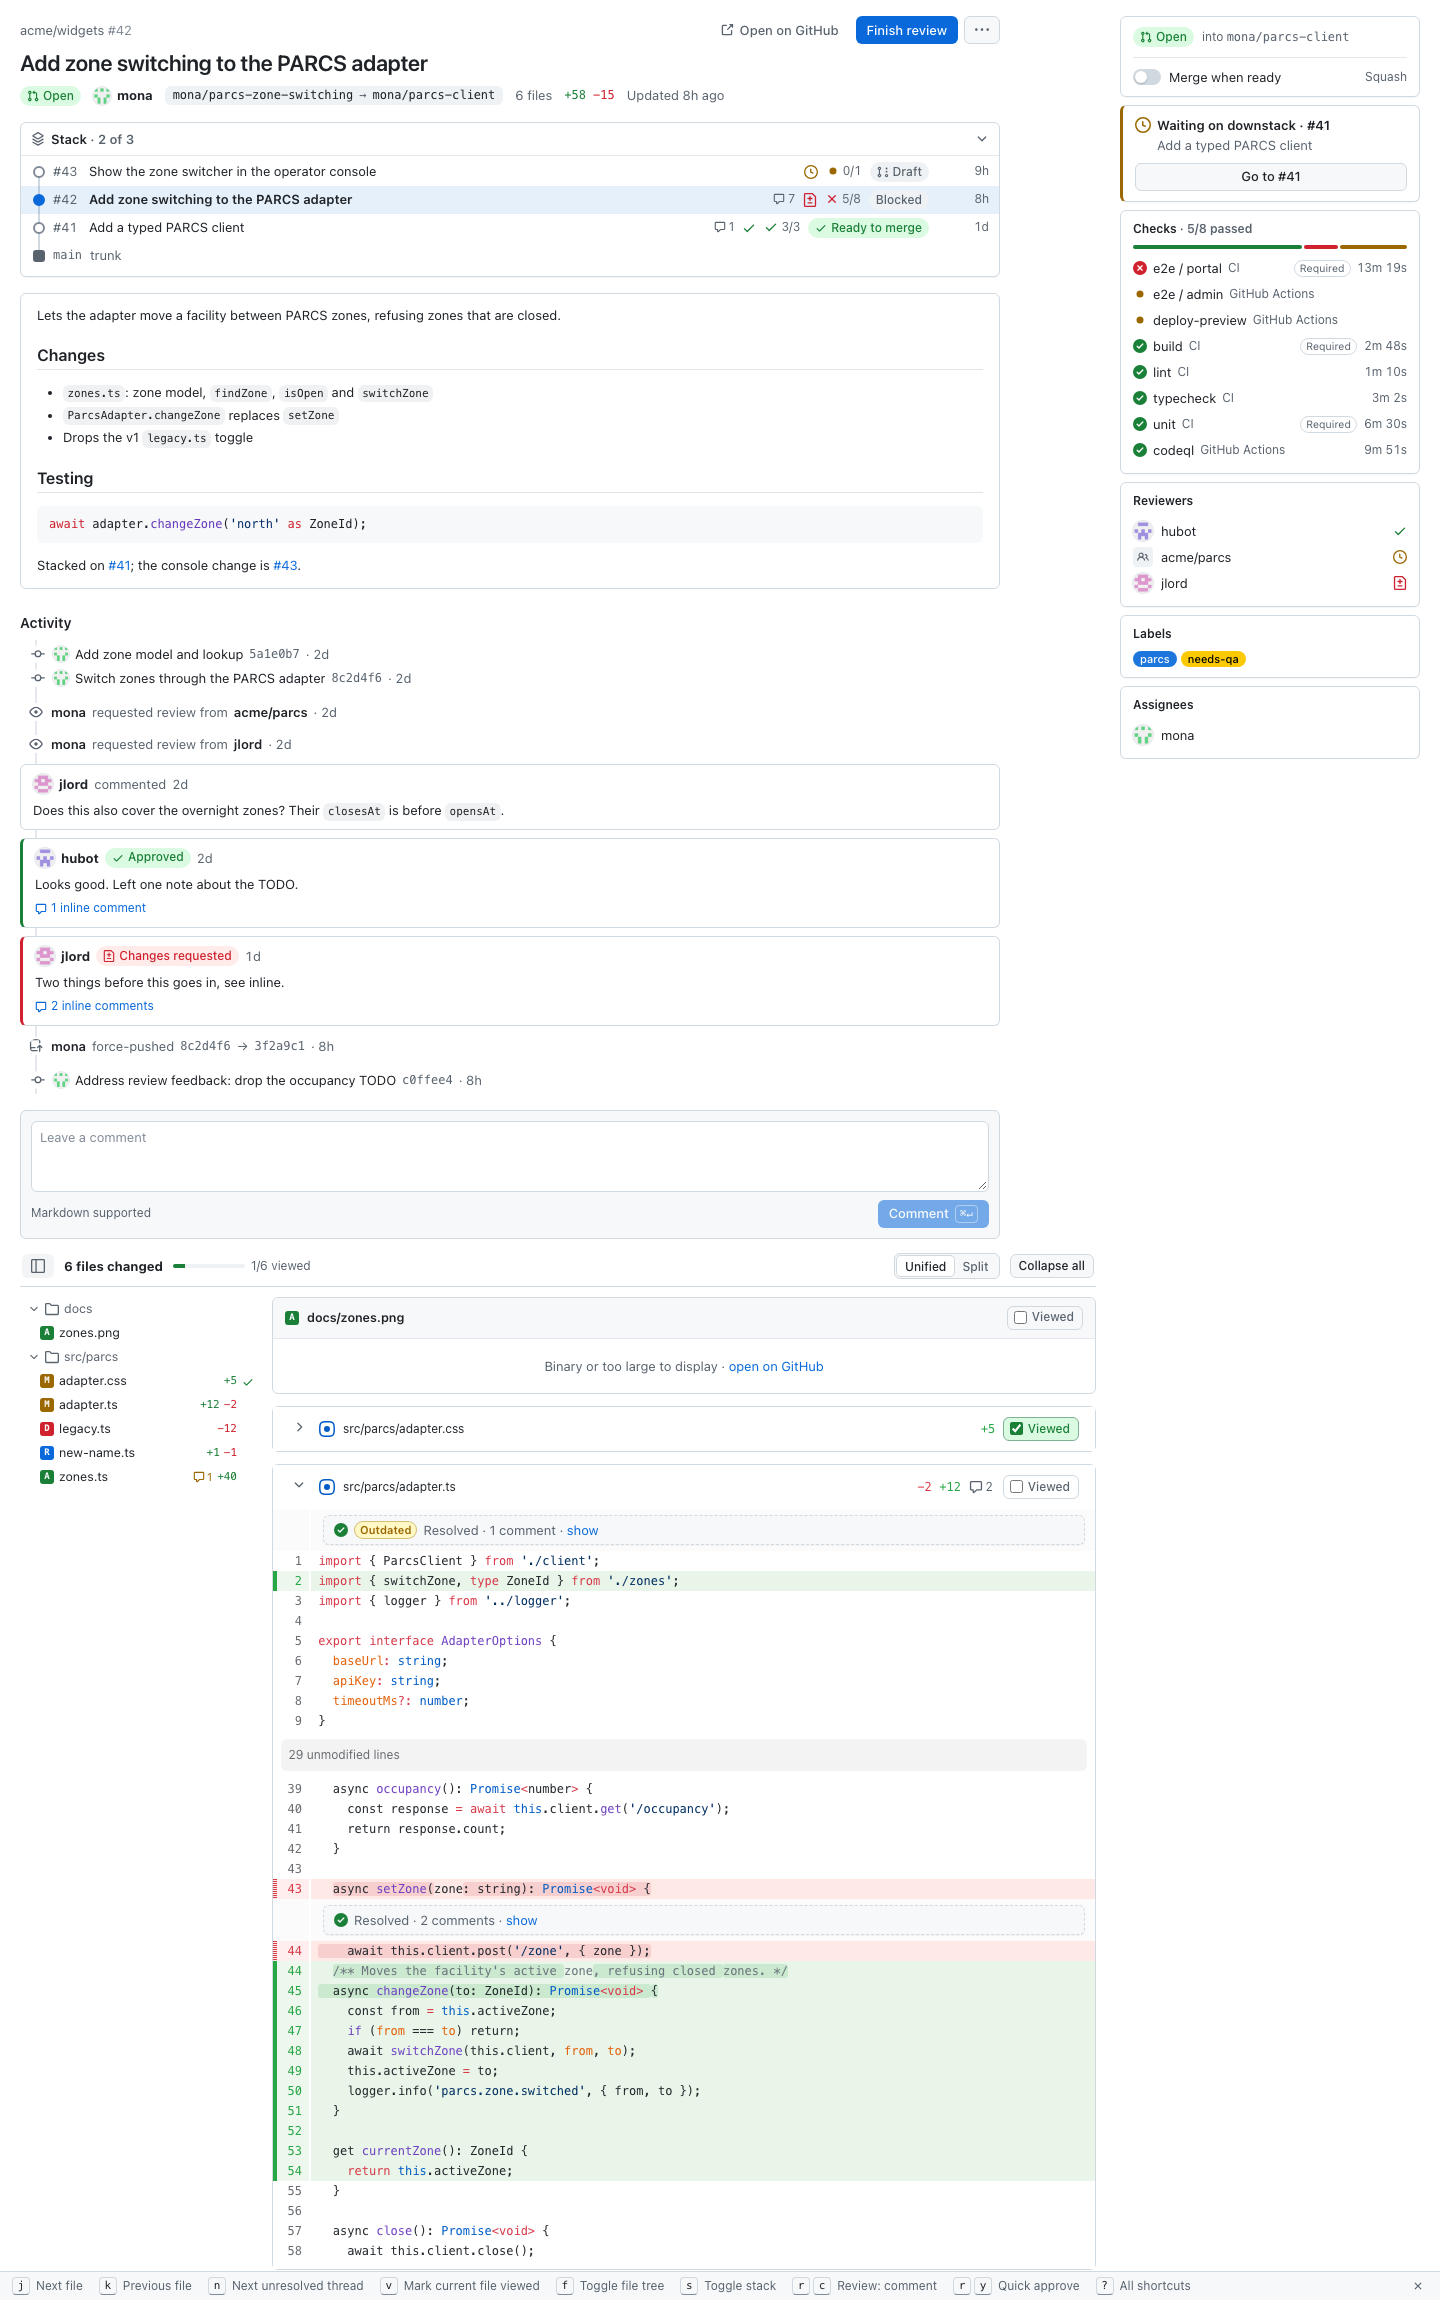
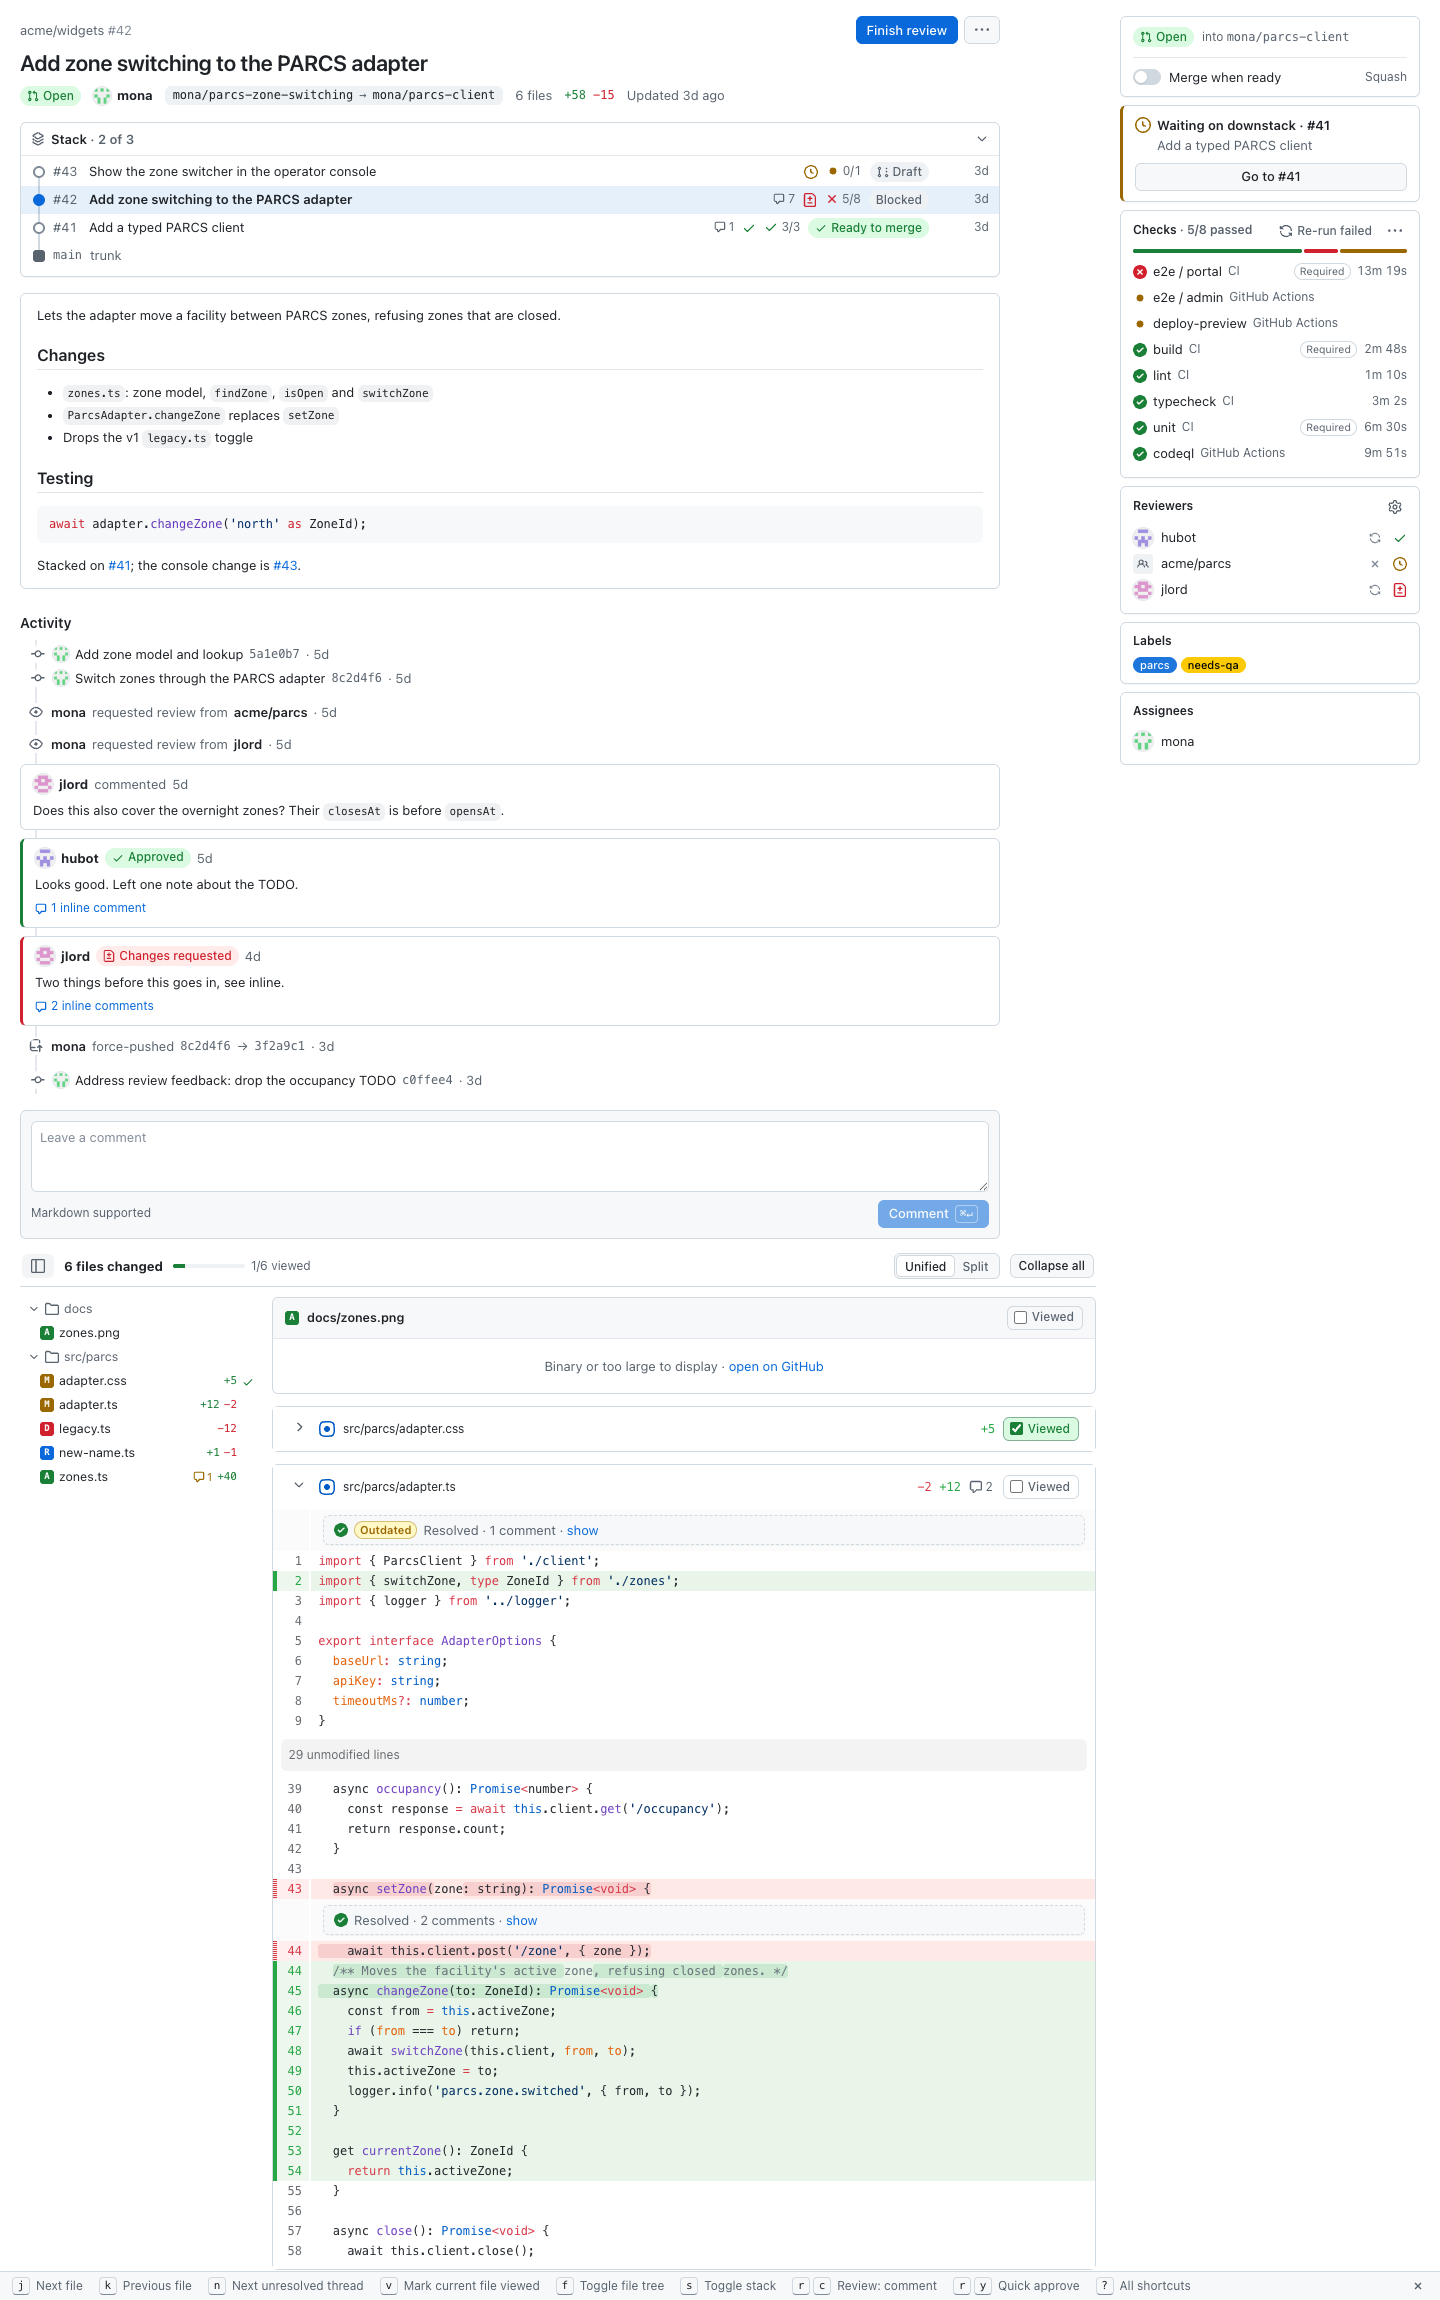
Describe the PR page's stages and refresh its screenshots

Changed region(s): [[0.7812, 0.0926, 0.9688, 0.3396], [0.9062, 0.1852, 0.9688, 0.2161]]

diff --git a/ARCHITECTURE.md b/ARCHITECTURE.md
@@ -44,9 +44,25 @@ run page loads into its re-run dialog. See `docs/research/github-web-endpoints.m
 Signed-in state comes from the fetched PR page's `meta[name="user-login"]`: empty means the PR page
 shows "Sign in to github.com in this tab". Signed in, the routes behind the sidebar (`merge_box`,
 `status_checks`, `stack_mergeability`, `review_requests`, `labels`, `assignees`, `description`) and
-the inbox's deferred fields are side details: a failure is logged with `console.debug('[gg]', …)` and
-leaves that card empty. Reads are cached in the content script for 30–60 s; a successful write clears
-the cache and the page refetches with `force`.
+the inbox's deferred fields are side details: on the PR page a 404 from one is logged with `console.debug('[gg]', …)`
+and leaves that card empty, and any other failure shows in the card with a retry. Reads are cached in the content
+script for 30–60 s; a successful write clears the cache.
+
+The PR page loads in stages (`PrStages` in `src/lib/model.ts`, `src/lib/github-web/pr-stages.ts`), all requested at
+once and each rendered as it arrives (`src/pr/page-data.ts`): `pr.fetchHeader` (the page's HTML, `tab_counts`,
+`diffstat`; the description is the conversation's first comment, `page_data/description` only without one),
+`pr.fetchActivity` (the timeline from that HTML, `threads` for which review opened which), `pr.fetchFiles`
+(`base_comparison_info`: every file, with the diffs GitHub sends along), then `pr.fetchFileDiffs` for the rest, 20
+paths a `diff_entries` request and four requests at a time in the order the files show, `pr.fetchThreads` (`threads`
+placed by the comparison's markers), `pr.fetchMergeBox` (`merge_box`, `review_requests`), `pr.fetchChecks`
+(`status_checks`), `pr.fetchStack` (`stack_mergeability` or Graphite's comment and the author's open PRs) and
+`pr.fetchMeta` (`labels`, `assignees`). The content script keeps each of GitHub's answers per PR for 30 s and shares it
+between the stages that read it, so the HTML is fetched once; `force` repeats only the requests a stage makes for
+itself. Until the header arrives (one round trip) the page is a skeleton; after it each section has its own skeleton
+and, should its stage fail, an inline error with a retry. Only a signed-out header fails the whole page. A write
+forgets what the stages it changes asked (`STAGES_A_WRITE_CHANGES` in `src/lib/rpc.ts`) and the page loads those
+stages again, the others untouched; marking a file viewed only changes it in place. `pr.fetch` still answers the whole
+`PrDetail` at once, composed from the stages.
 
 Stacks: GitHub-native `stack` from the PR page's embedded data first; otherwise Graphite's stack
 comment in the timeline, enriched through a `/pulls/search` query on the author's open PRs.
